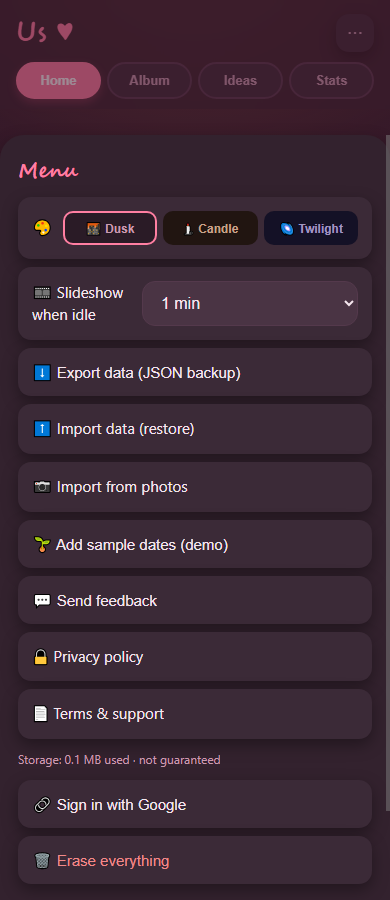
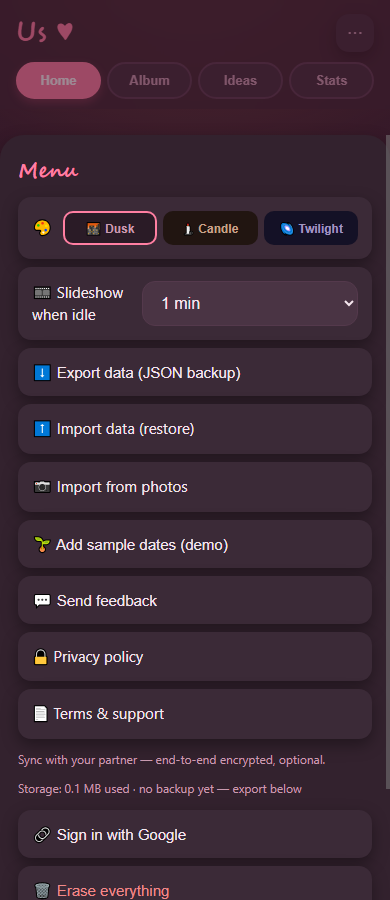
Menu play-test round: five fixes
- Erase-everything gains a cloud-mode double confirm (it wipes both
  partners) and an export-first nudge when no recent backup exists
- Signed-out sync row explains itself (E2EE, optional) before the
  Google button
- Wrapped card kicker uses the per-theme accent (was hardcoded pink
  on Candle/Twilight)
- Import errors distinguish not-JSON from wrong-shape; sheet closes
  consistently
- Storage line shows actionable backup age instead of 'not guaranteed'

Found by an agent play-test of the ⋯ menu. logic 39/39, smoke pass.

Changed region(s): [[0.0308, 0.84, 0.8308, 1.0], [0.9846, 0.8711, 1.0, 0.9022]]

diff --git a/js/ui.js b/js/ui.js
@@ -229,8 +229,11 @@ async function renderStorageStatus() {
   if (!el || !navigator.storage?.estimate) return;
   try {
     const { usage = 0 } = await navigator.storage.estimate();
-    const persisted = await navigator.storage.persisted?.() ?? false;
-    el.textContent = `Storage: ${(usage / 1048576).toFixed(1)} MB used · ${persisted ? "persistent ✓" : "not guaranteed"}`;
+    const last = await db.getSetting("lastExportAt", 0);
+    const backupStr = last
+      ? `backed up ${Math.max(0, Math.floor((Date.now() - last) / 86400e3))}d ago`
+      : "no backup yet — export below";
+    el.textContent = `Storage: ${(usage / 1048576).toFixed(1)} MB used · ${backupStr}`;
   } catch { el.textContent = ""; }
 }
 
@@ -250,6 +253,7 @@ let lastInviteCode = null;
 
 async function renderSyncStatus() {
   const status = document.getElementById("syncStatus");
+  const explainer = document.getElementById("syncExplainer");
   const signIn = document.getElementById("syncSignInBtn");
   const create = document.getElementById("syncCreateBtn");
   const join = document.getElementById("syncJoinBtn");
@@ -282,6 +286,7 @@ async function renderSyncStatus() {
       status.textContent = `🔄 Syncing as ${user.email}`;
     }
     status.classList.remove("hidden");
+    explainer.classList.add("hidden");
     signIn.classList.add("hidden"); create.classList.add("hidden"); join.classList.add("hidden");
     copyCode.classList.toggle("hidden", !lastInviteCode);
     regen.classList.toggle("hidden", !lastInviteCode);
@@ -292,6 +297,7 @@ async function renderSyncStatus() {
   } else if (user) {
     status.textContent = `Signed in as ${user.email} — set up a shared space:`;
     status.classList.remove("hidden");
+    explainer.classList.add("hidden");
     signIn.classList.add("hidden"); create.classList.remove("hidden"); join.classList.remove("hidden");
     copyCode.classList.add("hidden");
     regen.classList.add("hidden");
@@ -301,6 +307,7 @@ async function renderSyncStatus() {
     deleteAcct.classList.remove("hidden");
   } else {
     status.classList.add("hidden");
+    explainer.classList.remove("hidden");
     signIn.classList.remove("hidden"); create.classList.add("hidden"); join.classList.add("hidden");
     copyCode.classList.add("hidden");
     regen.classList.add("hidden");
@@ -1944,14 +1951,26 @@ async function onImport(e) {
   const file = e.target.files[0];
   e.target.value = "";
   if (!file) return;
+  let payload;
   try {
-    const payload = JSON.parse(await file.text());
+    payload = JSON.parse(await file.text());
+  } catch (err) {
+    console.error(err);
+    document.getElementById("sheet").classList.add("hidden");
+    toast("That file isn't JSON");
+    return;
+  }
+  try {
     const n = await db.importAll(payload, { merge: true });
     await reload();
     document.getElementById("sheet").classList.add("hidden");
     toast(`Imported ${n} dates`);
     show(currentTab);
-  } catch (err) { console.error(err); toast("Couldn't read that backup"); }
+  } catch (err) {
+    console.error(err);
+    document.getElementById("sheet").classList.add("hidden");
+    toast("That doesn't look like a Date Tracker backup");
+  }
 }
 
 async function onSeed() {
@@ -1965,10 +1984,16 @@ async function onSeed() {
 }
 
 async function onWipe() {
-  const msg = db.getMode() === "cloud"
+  const last = await db.getSetting("lastExportAt", 0);
+  if (!last || Date.now() - last > 30 * 86400e3) {
+    if (confirm("No recent backup — export before erasing?")) await onExport();
+  }
+  const cloud = db.getMode() === "cloud";
+  const msg = cloud
     ? "Erase ALL dates and photos in your shared space — for both of you? This cannot be undone."
     : "Erase ALL dates and photos? This cannot be undone.";
   if (!confirm(msg)) return;
+  if (cloud && !confirm("This erases the shared space for BOTH partners. Continue?")) return;
   await db.wipeAll();
   await reload();
   urlCache.clear();

diff --git a/js/charts.js b/js/charts.js
@@ -81,17 +81,17 @@ const WRAPPED_PALETTES = {
   plum: {   // Dusk: plum + sunset-amber corner glow
     stops: ["#4a2138", "#2a1b26", "#1e1420"],
     glowA: ["#ff9fba", 0.35], glowB: ["#f4a15d", 0.20],
-    label: "#e79fc0", sub: "#e9d5e0", body: "#f5e6ee", gold: "#e8c97a", muted: "#c99bb0",
+    label: "#e79fc0", sub: "#e9d5e0", body: "#f5e6ee", gold: "#e8c97a", muted: "#c99bb0", accent: "#ff9fba",
   },
   candle: { // espresso + candle-gold glow from below
     stops: ["#45291a", "#2b1c16", "#1a100c"],
     glowA: ["#ff9fba", 0.28], glowB: ["#f2b25c", 0.26],
-    label: "#e0b490", sub: "#eedbc8", body: "#f7ecdf", gold: "#f2b25c", muted: "#c8a48c",
+    label: "#e0b490", sub: "#eedbc8", body: "#f7ecdf", gold: "#f2b25c", muted: "#c8a48c", accent: "#f2b25c",
   },
   twilight: { // violet-navy + warm low glow
     stops: ["#35284f", "#1c1733", "#100d20"],
     glowA: ["#ff9fba", 0.30], glowB: ["#f4a15d", 0.18],
-    label: "#b9a9dd", sub: "#ded5ee", body: "#eae6f2", gold: "#e8c97a", muted: "#a196c0",
+    label: "#b9a9dd", sub: "#ded5ee", body: "#eae6f2", gold: "#e8c97a", muted: "#a196c0", accent: "#b9a9dd",
   },
 };
 export const WRAPPED_W = 1080, WRAPPED_H = 1350;
@@ -121,7 +121,7 @@ export function wrappedCard(stats, theme = "plum") {
 
   if (!stats.count) {
     return `${svgOpen}${bg}
-      <text x="${W / 2}" y="${H / 2 - 10}" text-anchor="middle" font-size="30" font-weight="700" letter-spacing="5" fill="#ff9fba">${esc(kicker)}</text>
+      <text x="${W / 2}" y="${H / 2 - 10}" text-anchor="middle" font-size="30" font-weight="700" letter-spacing="5" fill="${P.accent}">${esc(kicker)}</text>
       <text x="${W / 2}" y="${H / 2 + 50}" text-anchor="middle" font-size="32" fill="${P.muted}">No dates logged yet</text>
     </svg>`;
   }
@@ -144,7 +144,7 @@ export function wrappedCard(stats, theme = "plum") {
   const vibeLine = stats.vibes?.length ? `our vibe: ${stats.vibes.join(" · ")}` : "";
 
   return `${svgOpen}${bg}
-    <text x="${W / 2}" y="170" text-anchor="middle" font-size="30" font-weight="700" letter-spacing="5" fill="#ff9fba">${esc(kicker)}</text>
+    <text x="${W / 2}" y="170" text-anchor="middle" font-size="30" font-weight="700" letter-spacing="5" fill="${P.accent}">${esc(kicker)}</text>
     <text x="${W / 2}" y="340" text-anchor="middle" font-size="220" font-weight="800" fill="#fff">${stats.count}</text>
     <text x="${W / 2}" y="398" text-anchor="middle" font-size="42" font-weight="600" fill="${P.body}" opacity="0.85">dates together</text>
     <text x="${W / 2}" y="466" text-anchor="middle" font-size="38" fill="${P.body}" opacity="0.9"><tspan font-weight="800" fill="${P.gold}">♥ ${stats.avgEnjoyment.toFixed(1)}</tspan> average</text>

diff --git a/index.html b/index.html
@@ -77,6 +77,7 @@
       <a class="menu-row" href="terms.html" target="_blank" rel="noopener">📄 Terms &amp; support</a>
 
       <p class="muted small hidden" id="syncStatus"></p>
+      <p class="muted small hidden" id="syncExplainer">Sync with your partner — end-to-end encrypted, optional.</p>
       <p class="muted small" id="storageStatus"></p>
       <button class="menu-row hidden" id="syncSignInBtn">🔗 Sign in with Google</button>
       <button class="menu-row hidden" id="syncCreateBtn">💞 Create shared space</button>
